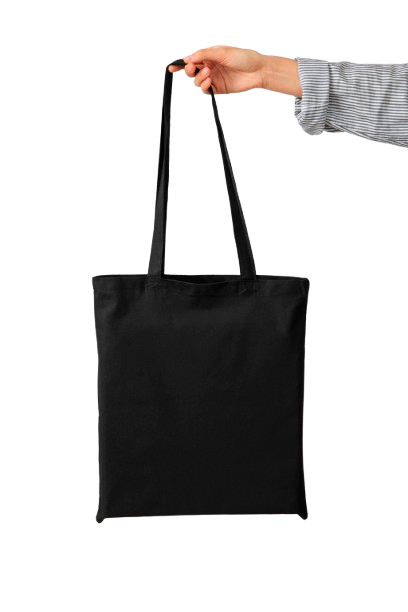
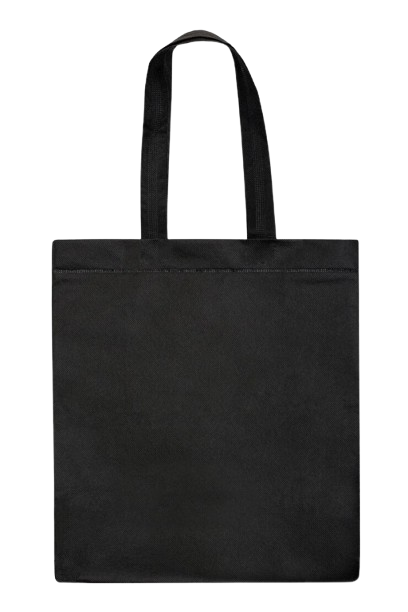
all shop pages completed

diff --git a/src/common/bag.css b/src/common/bag.css
@@ -118,7 +118,7 @@
 .catg-pic-b{
   width: 100%;
   height: 100%;
-  object-fit: cover;
+  object-fit: contain;
 }
 
 
